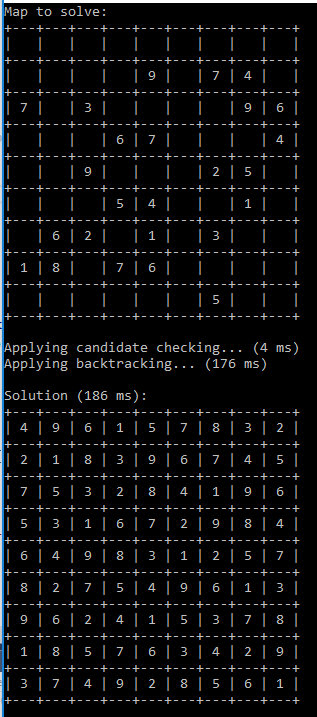
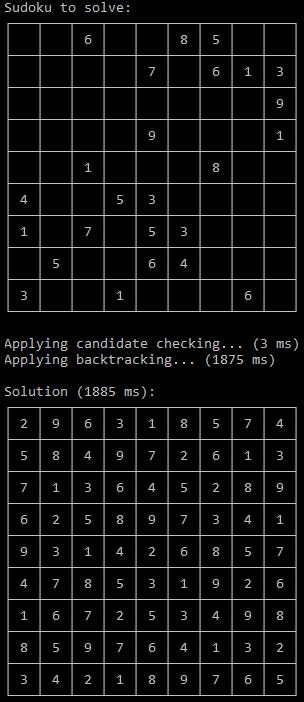
Minor changes

Changed region(s): [[0.0, 0.0, 1.0, 1.0]]

diff --git a/SudokuSolver/Helpers/InputHelper.cs b/SudokuSolver/Helpers/InputHelper.cs
@@ -1,5 +1,6 @@
 using System;
 using System.Collections.Generic;
+using System.Linq;
 using SudokuSolver.Entities;
 
 namespace SudokuSolver.Helpers
@@ -22,14 +23,14 @@ namespace SudokuSolver.Helpers
         public Map HandleInput()
         {
             var map = new Map();
-            Console.WriteLine("Enter map row by row: ");
+            Console.WriteLine("Enter map row by row (press Enter for empty cell): ");
             Console.WriteLine(map);
 
             while (!_isFinished)
             {
                 map = HandleKeyChar(Console.ReadKey());
                 Console.Clear();
-                Console.WriteLine("Enter map row by row: ");
+                Console.WriteLine("Enter map row by row (press Enter for empty cell): ");
                 Console.WriteLine(map);
             }
 
@@ -40,6 +41,9 @@ namespace SudokuSolver.Helpers
         {
             if (input.Key == ConsoleKey.Backspace)
             {
+                if (!_inputHistory.Any())
+                    return _currentMap;
+
                 _currentCoordinate = _currentCoordinate.GetPreviousCoordinate();
                 _currentMap = _inputHistory.Pop();
                 return _currentMap;
@@ -49,7 +53,11 @@ namespace SudokuSolver.Helpers
             if (input.Key == ConsoleKey.Enter)
                 value = 0;
             else
-                int.TryParse(input.KeyChar.ToString(), out value);
+            {
+                if (!int.TryParse(input.KeyChar.ToString(), out value))
+                    return _currentMap;
+            }
+                
 
             _inputHistory.Push(_currentMap.Clone());
             

diff --git a/SudokuSolver/Maps.cs b/SudokuSolver/Maps.cs
@@ -2,7 +2,7 @@
 {
     public class Maps
     {
-        public static int[][] Map1 =>
+        public static int[][] Easy1 =>
             new[]
             {
                 new [] {9, 0, 0, 0, 5, 0, 0, 1, 0},
@@ -16,7 +16,7 @@
                 new [] {0, 2, 0, 0, 4, 0, 0, 0, 1}
             };
 
-        public static int[][] Easy1 =>
+        public static int[][] Easy2 =>
             new[]
             {
                 new [] {0, 0, 9, 0, 0, 2, 0, 0, 5},
@@ -58,7 +58,7 @@
                 new [] {0, 0, 0, 0, 0, 0, 5, 0, 0}
             };
 
-        public static int[][] Friendly =>
+        public static int[][] Hard3 =>
             new[]
             {
                 new [] {0, 0, 6, 0, 0, 8, 5, 0, 0},
@@ -70,6 +70,21 @@
                 new [] {1, 0, 7, 0, 5, 3, 0, 0, 0},
                 new [] {0, 5, 0, 0, 6, 4, 0, 0, 0},
                 new [] {3, 0, 0, 1, 0, 0, 0, 6, 0}
+            };
+
+        //https://www.telegraph.co.uk/news/science/science-news/9359579/Worlds-hardest-sudoku-can-you-crack-it.html
+        public static int[][] WorldsHardestSudoku =>
+            new[]
+            {
+                new [] {8, 0, 0, 0, 0, 0, 0, 0, 0},
+                new [] {0, 0, 3, 6, 0, 0, 0, 0, 0},
+                new [] {0, 7, 0, 0, 9, 0, 2, 0, 0},
+                new [] {0, 5, 0, 0, 0, 7, 0, 0, 0},
+                new [] {0, 0, 0, 0, 4, 5, 7, 0, 0},
+                new [] {0, 0, 0, 1, 0, 0, 0, 3, 0},
+                new [] {0, 0, 1, 0, 0, 0, 0, 6, 8},
+                new [] {0, 0, 8, 5, 0, 0, 0, 1, 0},
+                new [] {0, 9, 0, 0, 0, 0, 4, 0, 0}
             };
 
     }

diff --git a/SudokuSolver/Entities/Map.cs b/SudokuSolver/Entities/Map.cs
@@ -19,24 +19,26 @@ namespace SudokuSolver.Entities
         {
             var sb = new StringBuilder();
             var cursorPrinted = false;
+            bool firstRow = true;
             foreach (var row in Cells)
             {
-                sb.Append("+---+---+---+---+---+---+---+---+---+\n|");
+                sb.Append(firstRow ? "┌───┬───┬───┬───┬───┬───┬───┬───┬───┐\n│" : "├───┼───┼───┼───┼───┼───┼───┼───┼───┤\n│");
+                firstRow = false;
                 foreach (var cell in row)
                 {
                     if (cell == null && !cursorPrinted)
                     {
-                        sb.Append(" _ |");
+                        sb.Append(" _ │");
                         cursorPrinted = true;
                     }
                     else if (cell == null)
-                        sb.Append("   |");
+                        sb.Append("   │");
                     else
-                        sb.Append(cell.Number == 0 ? "   |" : $" {cell.Number} |");
+                        sb.Append(cell.Number == 0 ? "   │" : $" {cell.Number} │");
                 }
                 sb.Append("\n");
             }
-            sb.Append("+---+---+---+---+---+---+---+---+---+");
+            sb.Append("└───┴───┴───┴───┴───┴───┴───┴───┴───┘");
             return sb.ToString();
         }
         

diff --git a/SudokuSolver/Program.cs b/SudokuSolver/Program.cs
@@ -18,12 +18,12 @@ namespace SudokuSolver
 
         static void Main(string[] args)
         {
-            var map = ManualInput ? new InputHelper().HandleInput() : MapFactory.Create(Maps.Hard2);
+            var map = ManualInput ? new InputHelper().HandleInput() : MapFactory.Create(Maps.Hard3);
 
             Console.Clear();
-            Console.WriteLine("Map to solve: ");
+            Console.WriteLine("Sudoku to solve: ");
             Console.WriteLine(map + "\n");
-
+            
             var stopwatch = new Stopwatch();
             stopwatch.Start();
 
@@ -40,7 +40,7 @@ namespace SudokuSolver
             }
             else
                 Console.WriteLine($"\nSudoku could not be solved ({stopwatch.ElapsedMilliseconds} ms)");
-
+    
             Console.ReadLine();
         }
     }
